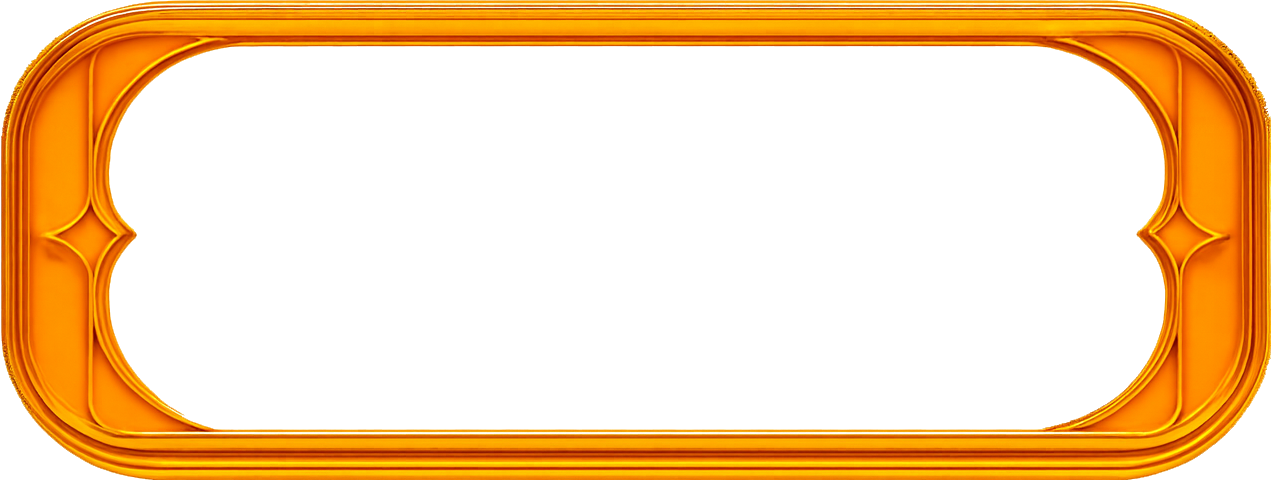
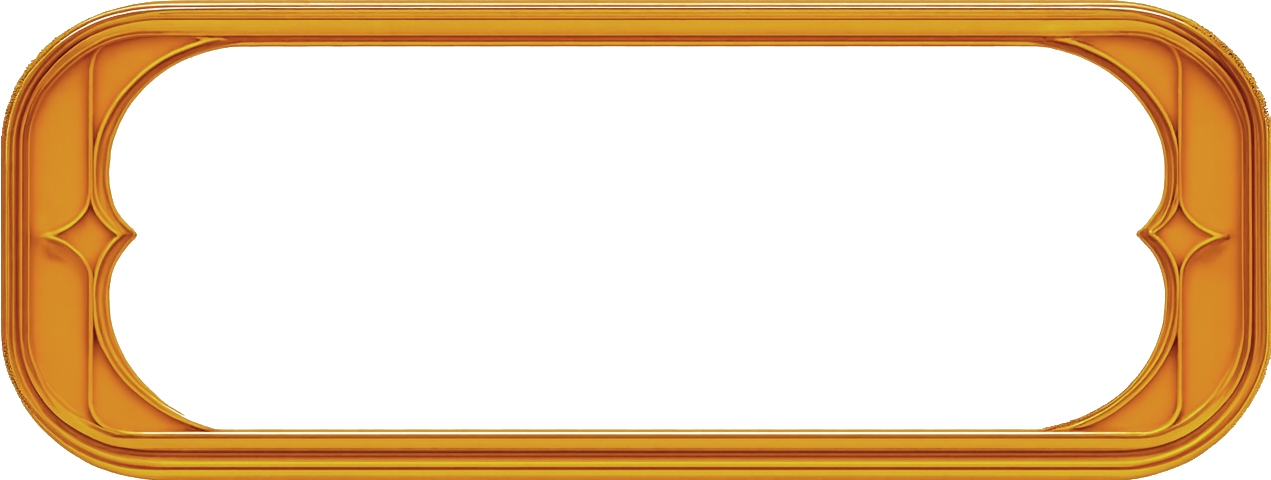
Swap to new frame assets and use chosen 2 for active state with lighter class tint overlay

diff --git a/theme-epic.css b/theme-epic.css
@@ -311,9 +311,9 @@ body.theme-epic .top-class-picker .class-box {
   background-size: 100% 100% !important;
   background-repeat: no-repeat !important;
   background-position: center !important;
-  background-color: rgb(var(--class-rgb)) !important;
+  background-color: transparent !important;
   box-shadow:
-    inset 0 0 0 999px rgba(var(--class-rgb), 0.3),
+    inset 0 0 0 999px rgba(var(--class-rgb), 0.14),
     0 0 0 1px rgba(var(--class-rgb), 0.2) !important;
   color: #fff3da !important;
   opacity: 1 !important;
@@ -324,9 +324,9 @@ body.theme-epic .top-class-picker .class-box {
 body.theme-epic .top-class-picker .class-box:hover {
   border: 0 !important;
   background-image: var(--class-frame-hover) !important;
-  background-color: rgb(var(--class-rgb)) !important;
+  background-color: transparent !important;
   box-shadow:
-    inset 0 0 0 999px rgba(var(--class-rgb), 0.38),
+    inset 0 0 0 999px rgba(var(--class-rgb), 0.2),
     0 0 14px rgba(var(--class-rgb), 0.3) !important;
 }
 
@@ -339,9 +339,9 @@ body.theme-epic .top-class-picker .class-box.has-icon::before {
 body.theme-epic .top-class-picker .class-box.active {
   border: 0 !important;
   background-image: var(--class-frame-active) !important;
-  background-color: rgb(var(--class-rgb)) !important;
+  background-color: transparent !important;
   box-shadow:
-    inset 0 0 0 999px rgba(var(--class-rgb), 0.44),
+    inset 0 0 0 999px rgba(var(--class-rgb), 0.24),
     0 0 0 1px rgba(var(--class-rgb), 0.42),
     0 0 10px rgba(var(--class-rgb), 0.22) !important;
   color: #fff7e8 !important;
@@ -456,18 +456,18 @@ body.theme-epic .talents-panel .spec-picker .spec-node {
   background-size: 100% 100% !important;
   background-repeat: no-repeat !important;
   background-position: center !important;
-  background-color: rgb(var(--class-rgb, 124, 94, 56)) !important;
+  background-color: transparent !important;
   box-shadow:
-    inset 0 0 0 999px rgba(var(--class-rgb, 124, 94, 56), 0.3),
+    inset 0 0 0 999px rgba(var(--class-rgb, 124, 94, 56), 0.16),
     0 0 0 1px rgba(var(--class-rgb, 124, 94, 56), 0.2) !important;
 }
 
 body.theme-epic .talents-panel .spec-picker .spec-node:hover {
   border: 0 !important;
   background-image: var(--spec-frame-hover) !important;
-  background-color: rgb(var(--class-rgb, 124, 94, 56)) !important;
+  background-color: transparent !important;
   box-shadow:
-    inset 0 0 0 999px rgba(var(--class-rgb, 124, 94, 56), 0.4),
+    inset 0 0 0 999px rgba(var(--class-rgb, 124, 94, 56), 0.24),
     0 0 10px rgba(var(--class-rgb, 124, 94, 56), 0.24) !important;
 }
 
@@ -475,9 +475,9 @@ body.theme-epic .talents-panel .spec-picker .spec-node.active,
 body.theme-epic .talents-panel .spec-picker .spec-node.locked-spec {
   border: 0 !important;
   background-image: var(--spec-frame-active) !important;
-  background-color: rgb(var(--class-rgb, 124, 94, 56)) !important;
+  background-color: transparent !important;
   box-shadow:
-    inset 0 0 0 999px rgba(var(--class-rgb, 124, 94, 56), 0.48),
+    inset 0 0 0 999px rgba(var(--class-rgb, 124, 94, 56), 0.28),
     0 0 0 1px rgba(var(--class-rgb, 124, 94, 56), 0.36),
     0 0 10px rgba(var(--class-rgb, 124, 94, 56), 0.22) !important;
 }
